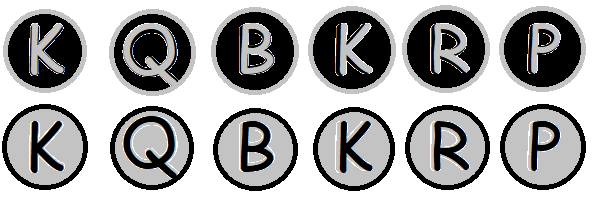
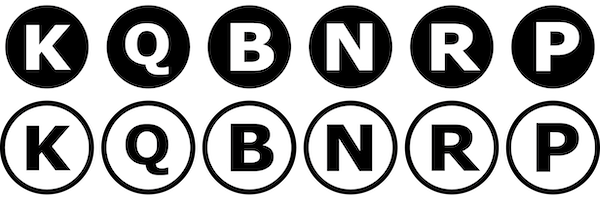
updated readme and added anaconda env

diff --git a/main/main.py b/main/main.py
@@ -3,8 +3,8 @@ import cv2
 import game_flow.game as gfg
 
 ccv = ccv(square_width=17, board_size=7, cam_height=480, cam_width=640, fps=60, webcam=False, draw_info=False,
-         input_video="../test_videos/480_Aruco_Still.mp4",
-         chess_icons="../assets/chess_pieces.png",
+         input_video="../test_videos/480_Aruco_Board.mp4",
+         chess_icons="../assets/chess_pieces_alt.png",
          write_video=False, output_video="Demo.mp4")
 
 param = [None]

diff --git a/README.md b/README.md
@@ -1,19 +1,42 @@
 # C.H.E.S.S.
+(Computing Homographies Every Stinkin' Second)
+## Technical details
+### Package Dependencies
+#### Python libraries used:
+* `OpenCV` 3.4.2
+* `python-chess`
+* `numpy`
 
-## Objective
+You can download our Anaconda environment [here](www.google.com).
+Python 3.7 was used in development.
+
+### Usage
+* Set working directory to `CHESS/main`.
+* Set script path to `CHESS/main/main.py`
+* Run `main.py` (if in PyCharm and script path is set, click `Run` button).
+
+### Notes
+* By default, C.H.E.S.S. will run with a pre-recorded video. This can be changed in the `ccv` object instantiation in `main.py`. Changing the `webcam` parameter from `False` to `True` accomplishes this.
+* The `chess_icons` parameter in the `ccv` object instantiation can also be changed to the path of a chesspiece template.
+  * Default: `chess_icons="../assets/chess_pieces.png"`
+  * Alternate: `chess_icons="../assets/chess_pieces_alt.png"`
+
+## Project Goals and Requirements
+
+### Objective
 We aim to create an augmented reality game of chess with no physical chess pieces; pieces are displayed on a video feed from a camera that is observing the board. Pieces shall be moved virtually by the user. For the initial implementation, the user will move a piece by clicking on the square of the piece it wishes to move and then clicking on the desired location for said pieces. As moves are made, the corresponding pieces are moved on screen. We plan to display the chess pieces as 2D pieces on the chessboard.
 
-## Stretch Goals
+### Stretch Goals
   * The user can click and drag a piece instead of just clicking source and destination points. Specifically, moving the chess piece as the mouse is moving onscreen.
   * The user can use a set of ArUco markers to select and move a piece instead of using mouse input. For example, one ArUco marker can be placed on a square to select which piece the user wants to move; a second ArUco marker can be placed to select which square the user wants to move the piece to; a third marker can be placed to finalize the move.
   * The user can use a pinching hand gesture to select and move a piece instead of using mouse input.
   * Use 3D chess pieces.
 
-## Approach
+### Approach
 To approach the problem, we will use `cv2.findChessboardCorners()` to read the chessboard. This will give us each corner of the board, with which we can subdivide into each square. Since the chessboard is square (n × n), the previous function will not return the pose of the chessboard. To remedy this, we will use an ArUco marker to form a reference orientation of the board. <br />
 We will need to track the location of each chess piece. To do this, we will have an array stored in our program that contains information about the position of each chess piece. This will be used for the game logic in addition to the Computer Vision techniques. We will then use this information in conjunction with intrensic and extrensic parameters to perform a homography transformation of the chess piece onto the board.
 
-## Time Line
+### Timeline
   * One-page proposal: 10/27/2021
   * Progress Report: 11/22/2021
   * Presentation (in-class): 12/03/2021
